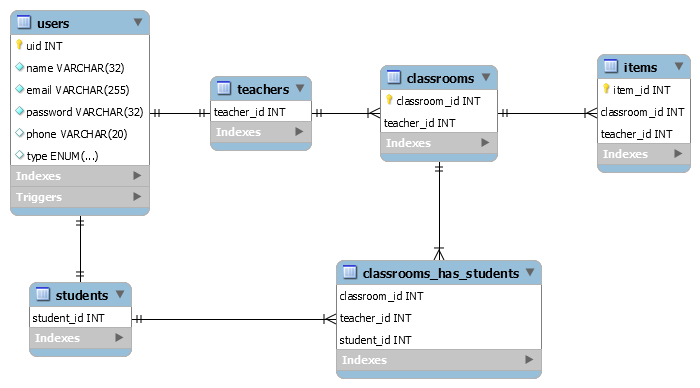
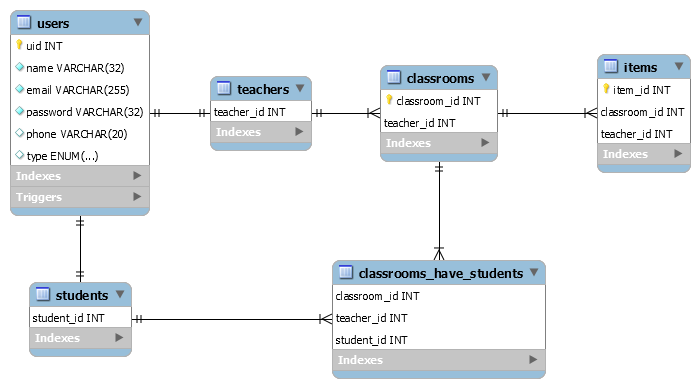
.

diff --git a/backend/utils/utils.php b/backend/utils/utils.php
@@ -4,22 +4,22 @@ require_once "database.php";
 require_once "../models/Student.php";
 require_once "../models/Classroom.php";
 
-function registerStudentToClassroom(Student $student, Classroom $classroom): void
+function registerStudentToClassroom(Classroom $classroom, Student $student): void
 {
-    $studentId = $student->getId();
     $classroomId = $classroom->getId();
     $teacherId = $classroom->getTeacherId();
+    $studentId = $student->getId();
     
     try {
-        $stmt = $db->prepare("INSERT INTO class_has_students (student_id, classroom_id, teacher_id) VALUES (?, ?, ?)");
-        $stmt->bindParam(1, $studentId);
-        $stmt->bindParam(2, $classroomId);
-        $stmt->bindParam(3, $teacherId);
+        $stmt = $db->prepare("INSERT INTO classrooms_have_students (classroom_id, teacher_id, student_id) VALUES (?, ?, ?)");
+        $stmt->bindParam(1, $classroomId);
+        $stmt->bindParam(2, $teacherId);
+        $stmt->bindParam(3, $studentId);
         $stmt->execute();
 
         $student->registerToClassroom($classroom);
     } catch (PDOException $e) {
-        echo "Could not register student $studentId to classroom $classroomId" . $e->getMessage();
+        echo "Could not register student $studentId to classroom $classroomId: " . $e->getMessage();
     }
 }
 ?>

diff --git a/backend/utils/Auth.php b/backend/utils/Auth.php
@@ -22,7 +22,7 @@ class Auth
             $stmt->bindParam(4, $user->getType());
             $stmt->execute();
         } catch (PDOException $e) {
-            echo "Could not register user into database. " . $e->getMessage();
+            echo "Could not register user into database: " . $e->getMessage();
         }
     }
 
@@ -44,7 +44,7 @@ class Auth
                 }
             }
         } catch (PDOException $e) {
-            echo "Could not sign in user. " . $e->getMessage();
+            echo "Could not sign in user: " . $e->getMessage();
         }
     }
 }

diff --git a/backend/utils/database.php b/backend/utils/database.php
@@ -13,6 +13,6 @@ try {
         PDO::ATTR_ERRMODE => PDO::ERRMODE_EXCEPTION
     ));
 } catch (PDOException $e) {
-    echo 'Connection failed: ' . $e->getMessage();
+    echo 'Database connection failed: ' . $e->getMessage();
 }
 ?>
